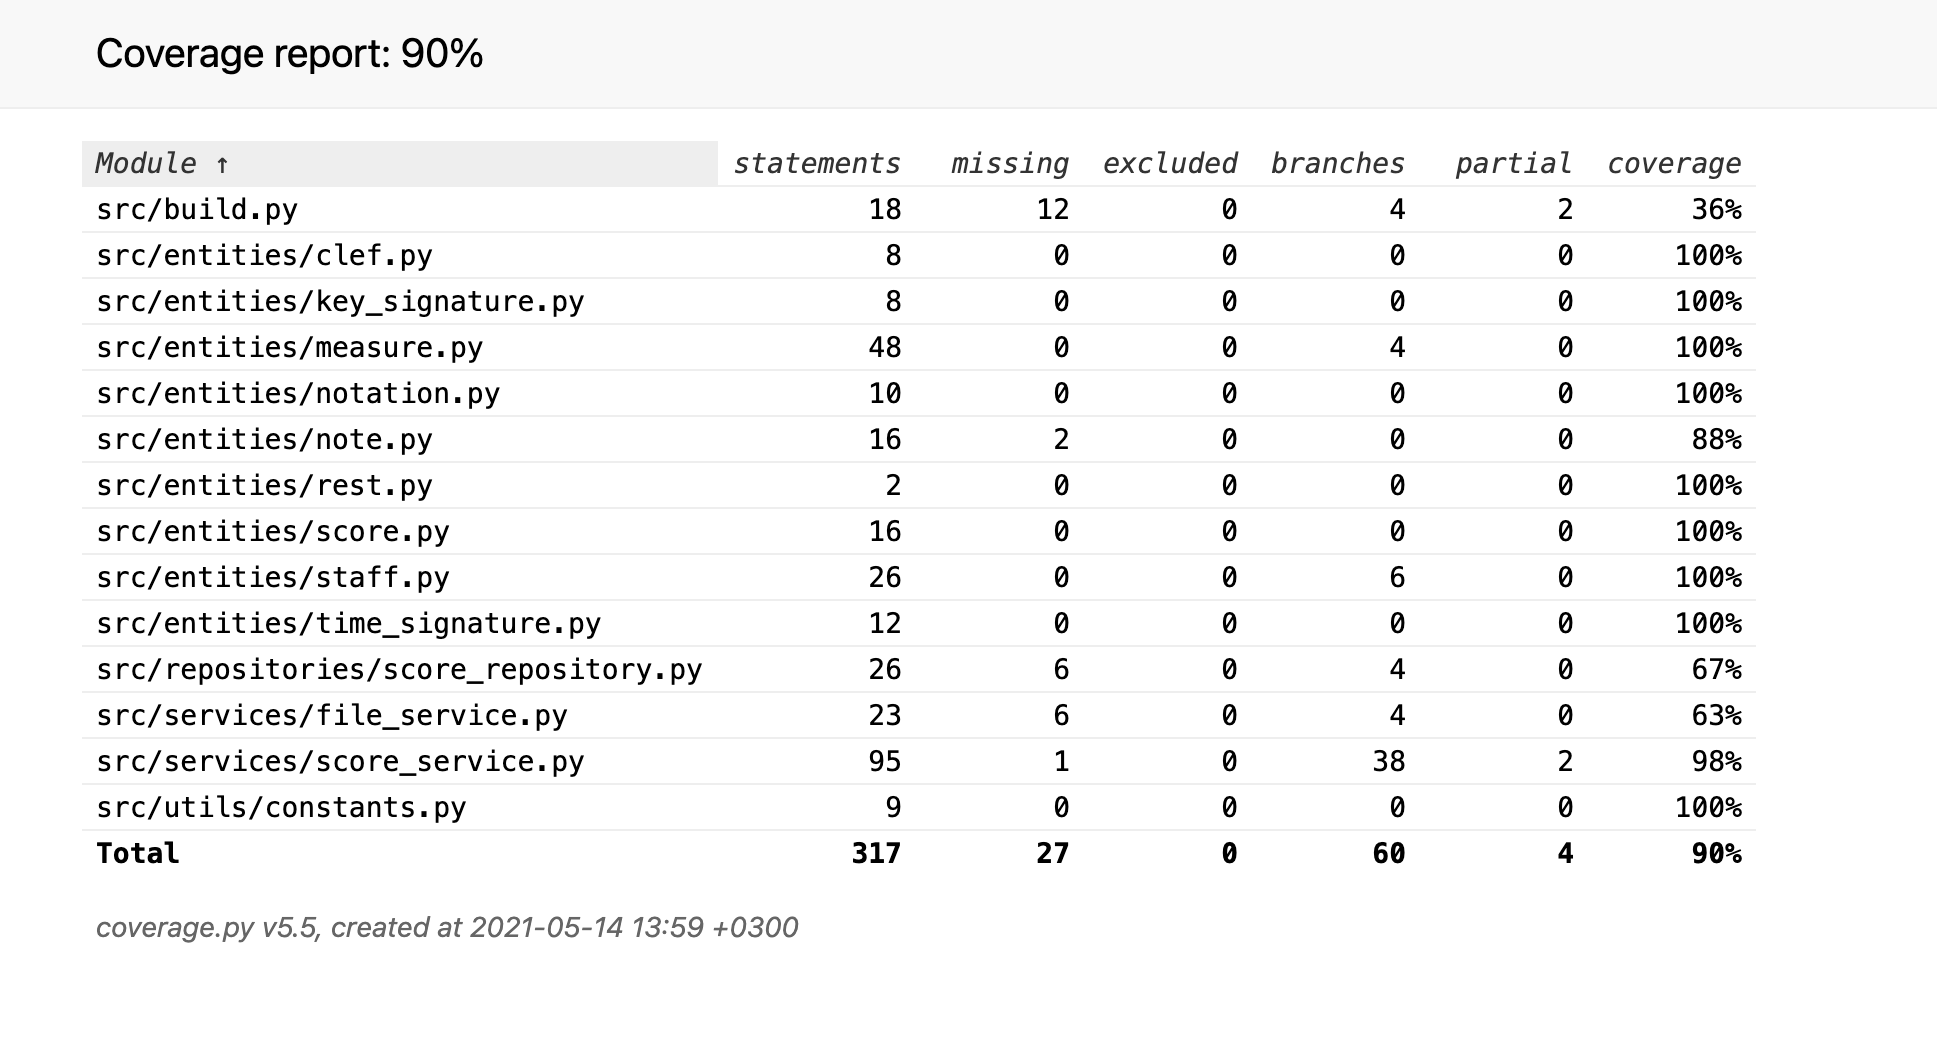
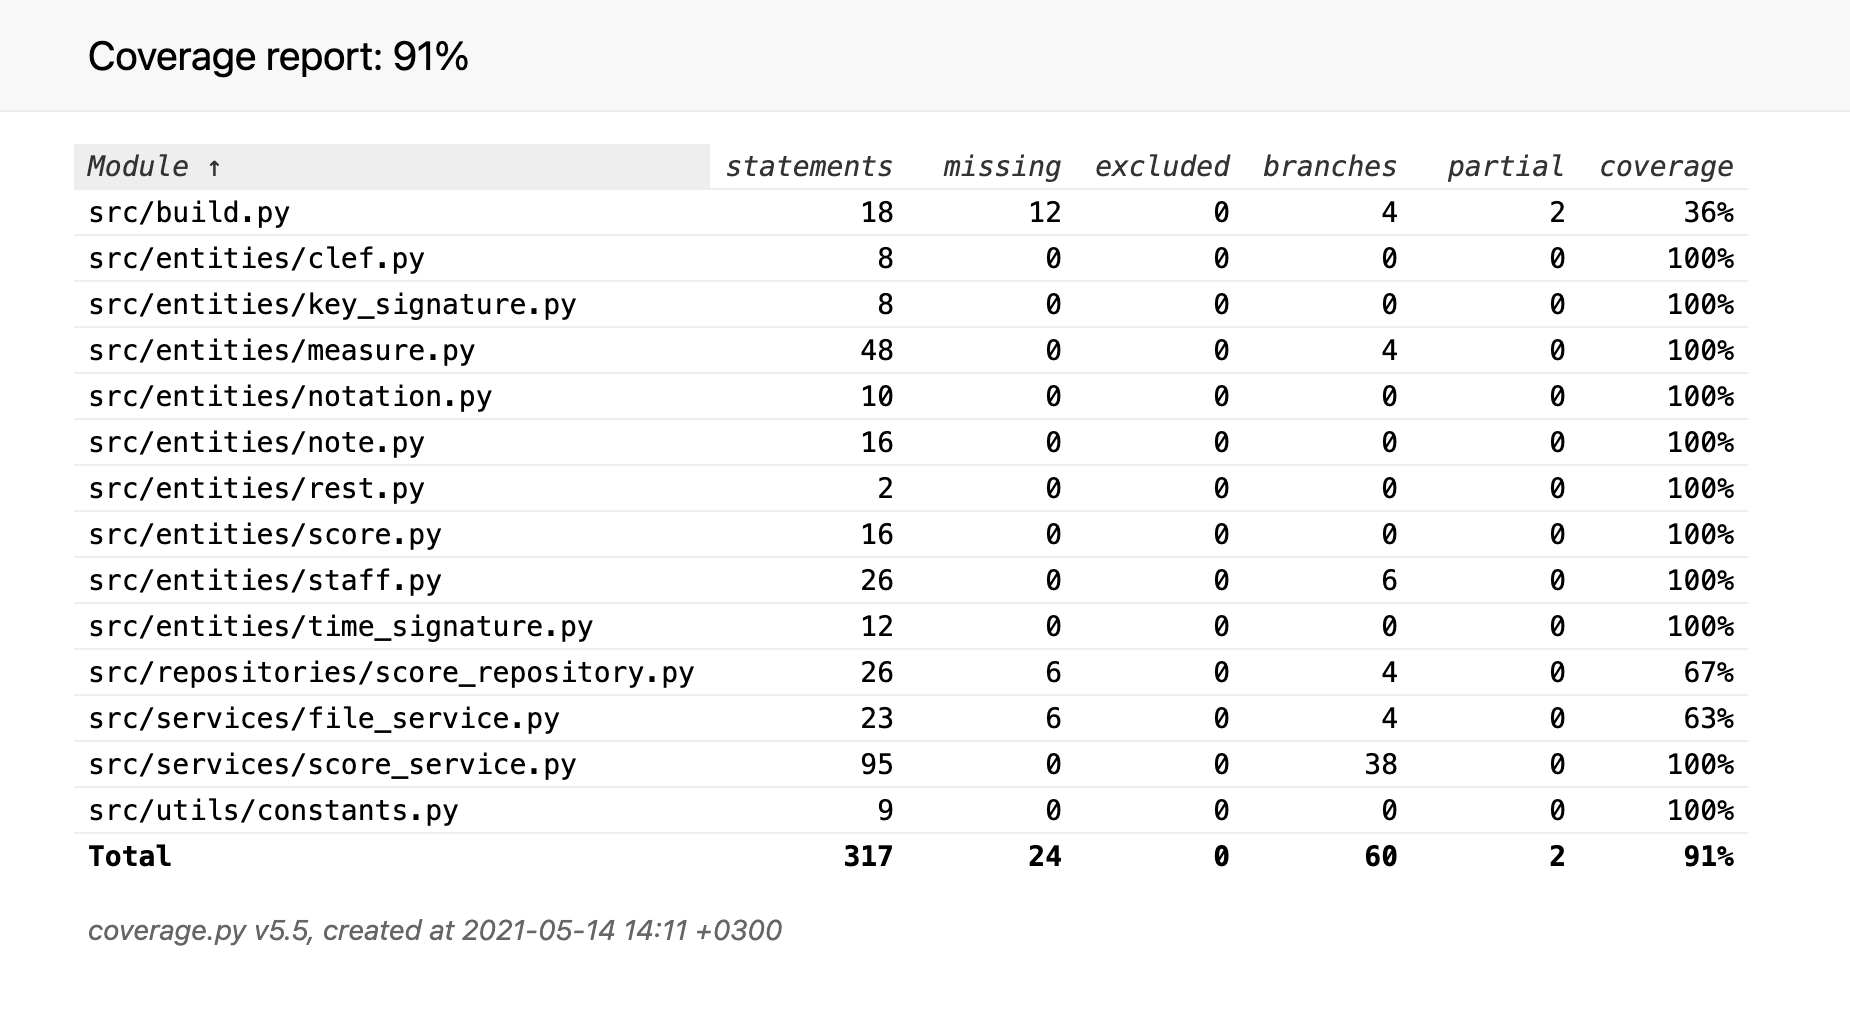
add tests

diff --git a/src/tests/services/score_service_test.py b/src/tests/services/score_service_test.py
@@ -36,6 +36,15 @@ class TestScoreService(unittest.TestCase):
     length_after = score_service.get_staff_length()
     self.assertEqual(length_after, length_before-1)
 
+  def test_remove_last_measure_does_not_removes_last_measure_if_one_measure(self):
+    score_service.remove_last_measure()
+    score_service.remove_last_measure()
+    length_before = score_service.get_staff_length()
+    score_service.remove_last_measure()
+    length_after = score_service.get_staff_length()
+    self.assertEqual(length_before, 1)
+    self.assertEqual(length_after, 1)
+
   def test_add_note_returns_true_with_valid_parameters(self):
     measure = 2
     length = 4
@@ -51,7 +60,7 @@ class TestScoreService(unittest.TestCase):
     self.assertEqual(return_value, False)
 
   def test_add_note_returns_false_with_invalid_length(self):
-    measure = -1
+    measure = 1
     length = 999
     pitch = 'c4'
     return_value = score_service.add_note(measure, length, pitch)

diff --git a/src/tests/entities/notation_test.py b/src/tests/entities/notation_test.py
@@ -13,6 +13,12 @@ class TestNotation(unittest.TestCase):
   def test_note_returns_pitch_c2(self):
     self.assertEqual(self.note.get_pitch(), 'c2')
 
+  def test_get_note_returns_note_c(self):
+    self.assertEqual(self.note.get_note(), 'c')
+
+  def test_get_pitch_class_returns_2(self):
+    self.assertEqual(self.note.get_pitch_class(), '2')
+
   def test_note_returns_length_2(self):
     self.assertEqual(self.note.get_length(), 2)
 

diff --git a/src/services/score_service.py b/src/services/score_service.py
@@ -131,7 +131,6 @@ class ScoreService:
       return False
 
     if not self._score.get_staff().get_measures()[measure_index].measure_has_space(length):
-      #return False
       return "No space"
 
     return True
